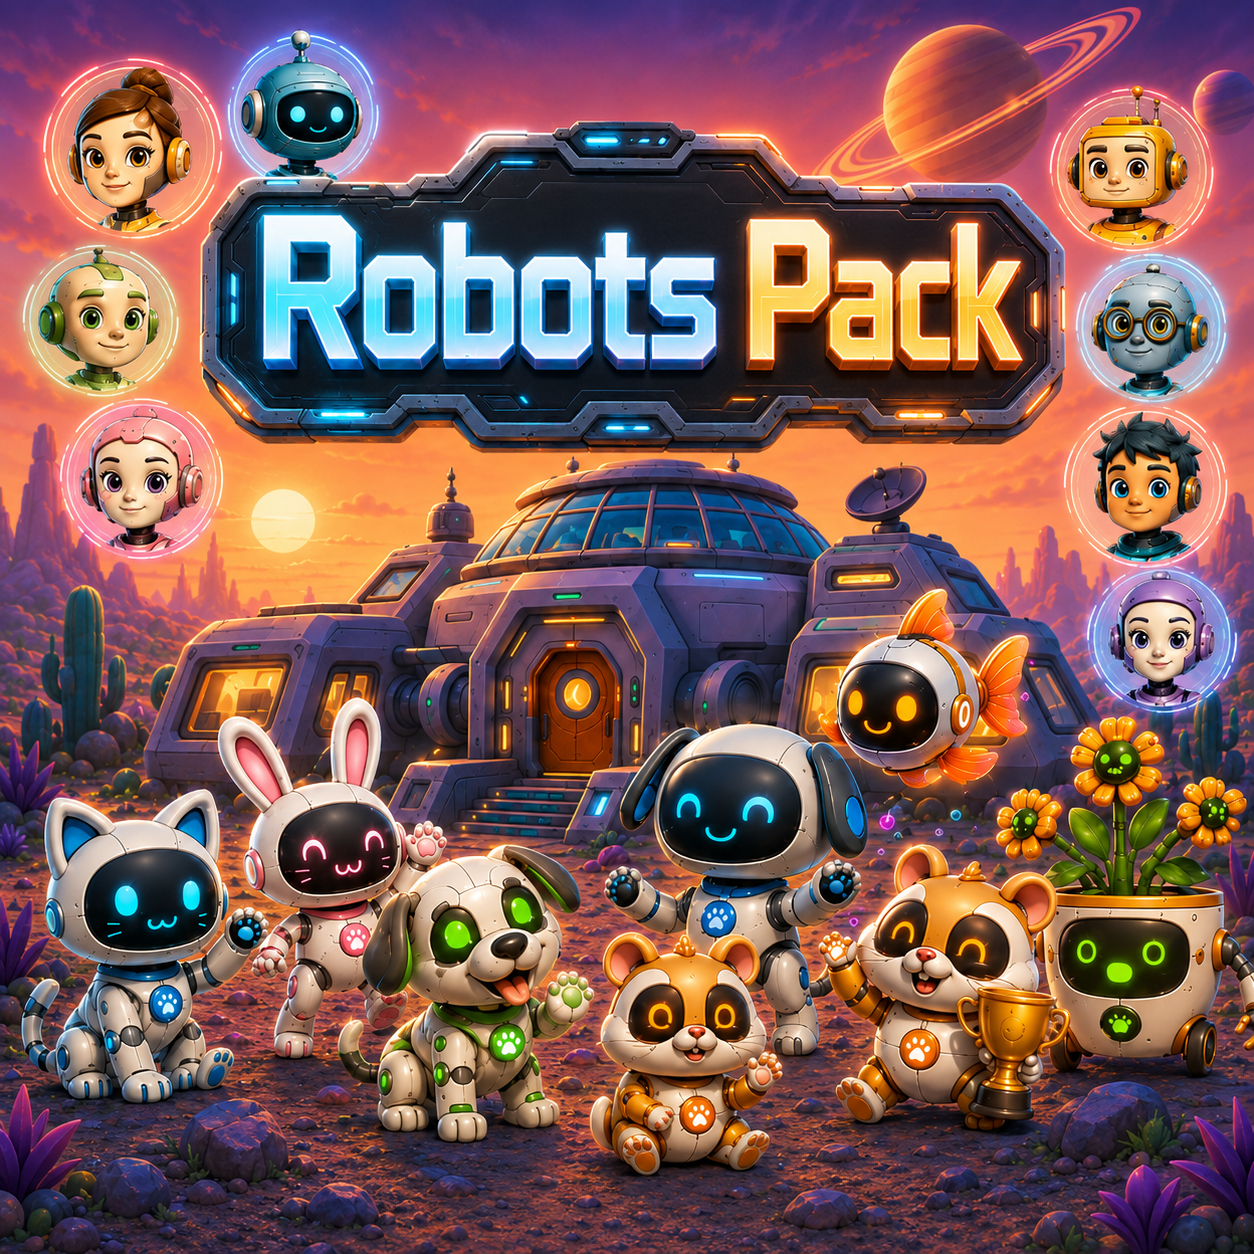
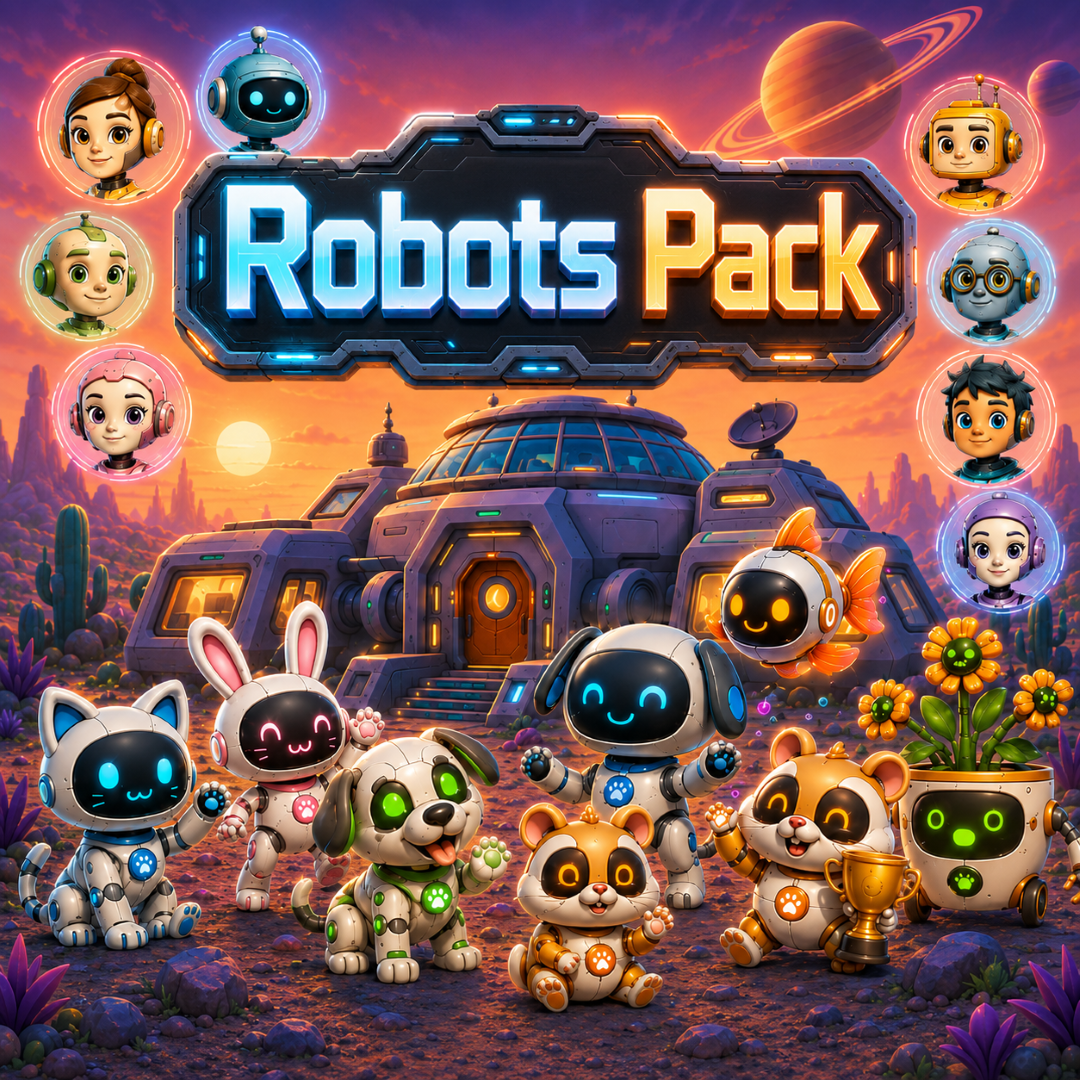
Packs immediately available

diff --git a/app/lib/core/household/household_actions.dart b/app/lib/core/household/household_actions.dart
@@ -6,6 +6,7 @@ import 'package:riverpod_annotation/riverpod_annotation.dart';
 
 import '../api/pocketbase_client.dart';
 import '../auth/auth_controller.dart';
+import '../catalog/catalog_controller.dart';
 import 'current_household_controller.dart';
 import 'household_members_controller.dart';
 import 'households_controller.dart';
@@ -99,9 +100,11 @@ class HouseholdActions {
   /// Redeems an image-pack code for [householdId] via the custom server
   /// endpoint (the pack code field is hidden from clients, so only the
   /// hook can resolve it). Idempotent server-side. On success, patches
-  /// the cached household's pack list in place - the catalog provider
-  /// watches it and refetches with the new pack included, so the art
-  /// appears in pickers without any navigation or refetch bounce.
+  /// the cached household's pack list in place (so the picker gate updates)
+  /// and invalidates the remote catalog so it refetches the now-relevant
+  /// pack's art - otherwise the in-memory catalog still predates it and the
+  /// art wouldn't appear until the next sign-in (which is the only other
+  /// thing that refetches the catalog).
   ///
   /// Returns the pack's display name for the confirmation snackbar.
   Future<({String name, bool alreadyApplied})> redeemPackCode({
@@ -137,6 +140,7 @@ class HouseholdActions {
             householdId: householdId,
             packs: [...?current?.packIds, packId],
           );
+      _ref.invalidate(remoteCatalogProvider);
     }
     return (name: name, alreadyApplied: alreadyApplied);
   }
@@ -148,9 +152,10 @@ class HouseholdActions {
   /// `packs` relation. Idempotent server-side: a Restore re-verifies the same
   /// transaction and returns `alreadyApplied`.
   ///
-  /// On a fresh grant, patches the cached household's pack list in place - the
-  /// catalog watches it and refetches with the new packs, so the art appears
-  /// in the pickers without any navigation bounce (same as [redeemPackCode]).
+  /// On a fresh grant, patches the cached household's pack list in place (so
+  /// the picker gate updates) and invalidates the remote catalog so it
+  /// refetches the granted packs' art, so it appears in the pickers without a
+  /// sign-out/in (same as [redeemPackCode]).
   ///
   /// Returns the product name + the granted pack ids for the confirmation.
   Future<({String name, List<String> packIds, bool alreadyApplied})>
@@ -192,6 +197,7 @@ class HouseholdActions {
       _ref
           .read(householdsControllerProvider.notifier)
           .updateOneInPlace(householdId: householdId, packs: merged);
+      _ref.invalidate(remoteCatalogProvider);
     }
     return (name: name, packIds: packIds, alreadyApplied: alreadyApplied);
   }